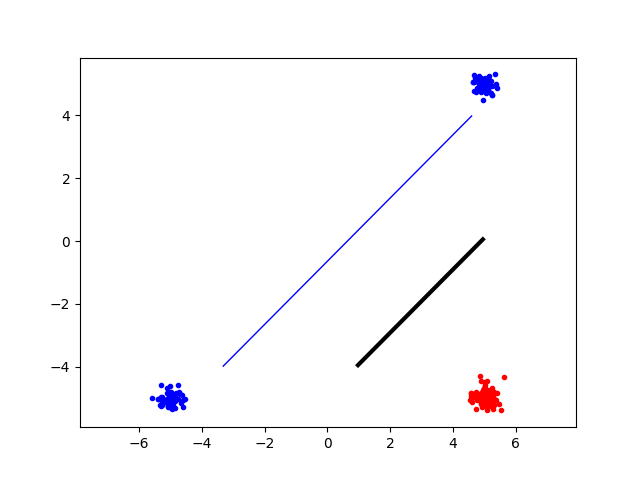
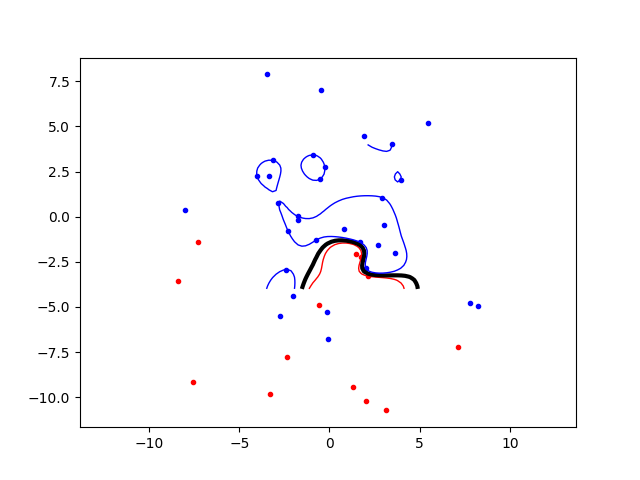
updated testing

diff --git a/Lab2/svm.py b/Lab2/svm.py
@@ -1,10 +1,17 @@
 import numpy as np
 from scipy.optimize import minimize
 import matplotlib.pyplot as plt
+import random
 
 # Define the kernel function (linear kernel)
 def linear_kernel(x, y):
     return np.dot(np.transpose(x), y)
+
+def polynomial_kernel(x, y, p=3):
+    return (1 + np.dot(np.transpose(x), y)) ** p
+
+def rbf_kernel(x, y, sigma=0.5):
+    return np.exp(-(np.linalg.norm(x-y) ** 2) / (2 * sigma ** 2))
 
 # Objective function for the optimization
 def objective(alpha):
@@ -26,13 +33,13 @@ def zerofun(alpha):
 def indicator(x, y):
     ind = -b
     for i in range(len(sv)):
-        ind += sv[i][2] * sv[i][1] * linear_kernel([x, y], sv[i][0])
+        ind += sv[i][2] * sv[i][1] * KERNEL([x, y], sv[i][0])
     return ind
 
-def get_data(x1a=1.5, y1a=0.5, x2a=-1.5, y2a=0.5, x1b=0.0, y1b=-0.5, n1a=10, n2a=10, nb=20):
+def get_data(x1a=1.5, y1a=0.5, x2a=-1.5, y2a=0.5, x1b=0.0, y1b=-0.5, n1a=10, n2a=10, nb=20, std=0.3):
     np.random.seed(100) # Ensure same data every time
-    classA = np.concatenate((np.random.randn(n1a, 2) * 0.2 + [x1a, y1a], np.random.randn(n2a, 2) * 0.2 + [x2a, y2a]))
-    classB = np.random.randn(nb, 2) * 0.2 + [x1b, y1b]
+    classA = np.concatenate((np.random.randn(n1a, 2) * std + [x1a, y1a], np.random.randn(n2a, 2) * std + [x2a, y2a]))
+    classB = np.random.randn(nb, 2) * std + [x1b, y1b]
 
     inputs = np.concatenate((classA, classB))
     targets = np.concatenate((np.ones(classA.shape[0]), -np.ones(classB.shape[0])))
@@ -58,12 +65,15 @@ def get_support_vectors():
     for i in range(len(alpha)):
         if alpha[i] > threshold:
             sv.append((inputs[i], targets[i], alpha[i]))
+    if len(sv) == 0: 
+        print("No support vectors found")
+        return None
     return sv
         
 def compute_bias(sv):
     b = 0
     for i in range(len(sv)):
-        b += sv[i][2] * sv[i][1] * linear_kernel(sv[0][0], sv[i][0])
+        b += sv[i][2] * sv[i][1] * KERNEL(sv[0][0], sv[i][0])
     b -= sv[0][1]
     return b
 
@@ -81,27 +91,88 @@ def plot(classA, classB, show_input=False):
     plt.savefig('svmplot.png') # Save a copy in a file
     return plt
 
+# Helper function to format input parameters for display
+def format_params(index, params):
+    return f"x1a={params['x1a'][index]}, y1a={params['y1a'][index]}, x2a={params['x2a'][index]}, y2a={params['y2a'][index]}, " \
+           f"x1b={params['x1b'][index]}, y1b={params['y1b'][index]}, n1a={params['n1a'][index]}, n2a={params['n2a'][index]}, nb={params['nb'][index]}"
 
 
-# List of input variables to test (first is default values)
-x1a = [1.5, 1, 2, 3, 4, 5]
-y1a = [0.5, 1, 2, 3, 4, 5]
-x2a = [-1.5, -1, -2, -3, -4, -5]
-y2a = [0.5, -1, -2, -3, -4, -5]
-x1b = [0.0, 1, 2, 3, 4, 5]
-y1b = [-0.5, -1, -2, -3, -4, -5]
 
-n1a = [10, 10, 20, 30, 40, 50]
-n2a = [10, 10, 20, 30, 40, 50]
-nb = [20, 20, 40, 60, 80, 100]
 
-# Test the function with different input values
-for i in range(6):
-    inputs, targets, classA, classB, N =  get_data(x1a[i], y1a[i], x2a[i], y2a[i], x1b[i], y1b[i], n1a[i], n2a[i], nb[i])
-    P = P_matrix(inputs, targets, linear_kernel)
-    sv = get_support_vectors()
-    b = compute_bias(sv)
-    plotViz = plot(classA, classB)
-    # Add the data variables (x1a, y1a, x2a, y2a, x1b, y1b, n1a, n2a, nb) as text to the plot, located below the x-axis
-    plotViz.text(-5, -5, f"x1a={x1a[i]}, y1a={y1a[i]}, x2a={x2a[i]}, y2a={y2a[i]}, x1b={x1b[i]}, y1b={y1b[i]}, n1a={n1a[i]}, n2a={n2a[i]}, nb={nb[i]}", fontsize=8)
-    plotViz.show()
+
+# Define the input variables to test
+test_params = {
+    'x1a': random.sample(range(-5, 5), 6),
+    'y1a': random.sample(range(-5, 5), 6),
+    'x2a': random.sample(range(-5, 5), 6),
+    'y2a': random.sample(range(-5, 5), 6),
+    'x1b': random.sample(range(-5, 5), 6),
+    'y1b': random.sample(range(-5, 5), 6),
+    'n1a': random.sample(range(1, 20), 6),
+    'n2a': random.sample(range(1, 20), 6),
+    'nb': random.sample(range(1, 20), 6),
+    'std': random.sample(range(1, 10), 6),
+}
+
+# Define kernel functions and parameters to test
+kernel_functions = [
+    {'name': 'Linear Kernel', 'func': linear_kernel},
+    {'name': 'Polynomial Kernel', 'func': polynomial_kernel, 'params': {'p': [2, 3, 5]}},
+    {'name': 'RBF Kernel', 'func': rbf_kernel, 'params': {'sigma': [0.1, 0.5, 1.0]}}
+]
+
+for kernel in kernel_functions:
+        KERNEL = kernel['func']  # Set the kernel
+        kernel_params = kernel.get('params', None)
+        print(f"Testing with {kernel['name']}")
+        
+        # Test with different random data samples
+        for i in range(6):
+            inputs, targets, classA, classB, N = get_data(
+                test_params['x1a'][i], test_params['y1a'][i],
+                test_params['x2a'][i], test_params['y2a'][i],
+                test_params['x1b'][i], test_params['y1b'][i],
+                test_params['n1a'][i], test_params['n2a'][i],
+                test_params['nb'][i], test_params['std'][i]
+            )
+
+            P = P_matrix(inputs, targets, KERNEL)
+            sv = get_support_vectors()
+            
+            if sv is not None:
+                
+                b = compute_bias(sv)
+                plotViz = plot(classA, classB)
+            
+                # Add parameter info to the plot
+                plotViz.text(-5, -5, format_params(i, test_params), fontsize=8)
+                plotViz.show()
+
+                # If kernel has additional parameters, test with those too
+                if kernel_params:
+                    for param_name, param_values in kernel_params.items():
+                        for param_value in param_values:
+                            print(f"Testing {kernel['name']} with {param_name}={param_value}")
+                            
+                            # Re-define the kernel with new parameters (e.g., polynomial degree, sigma for RBF)
+                            if kernel['name'] == 'Polynomial Kernel':
+                                KERNEL = lambda x, y: polynomial_kernel(x, y, p=param_value)
+                            elif kernel['name'] == 'RBF Kernel':
+                                KERNEL = lambda x, y: rbf_kernel(x, y, sigma=param_value)
+                            
+                            # Run the SVM again with the new kernel configuration
+                            P = P_matrix(inputs, targets, KERNEL)
+                            sv = get_support_vectors()
+                            
+                            if sv is None:
+                                print(f"Optimization failed for {kernel['name']} with {param_name}={param_value}")
+                                continue
+                            
+                            b = compute_bias(sv)
+                            plotViz = plot(classA, classB)
+                            
+                            # Add kernel parameter info to the plot
+                            plotViz.text(-5, -6, f"{param_name}={param_value}", fontsize=8)
+                            plotViz.show()
+            else:
+                print(f"Optimization failed with parameters: {format_params(i, test_params)}")
